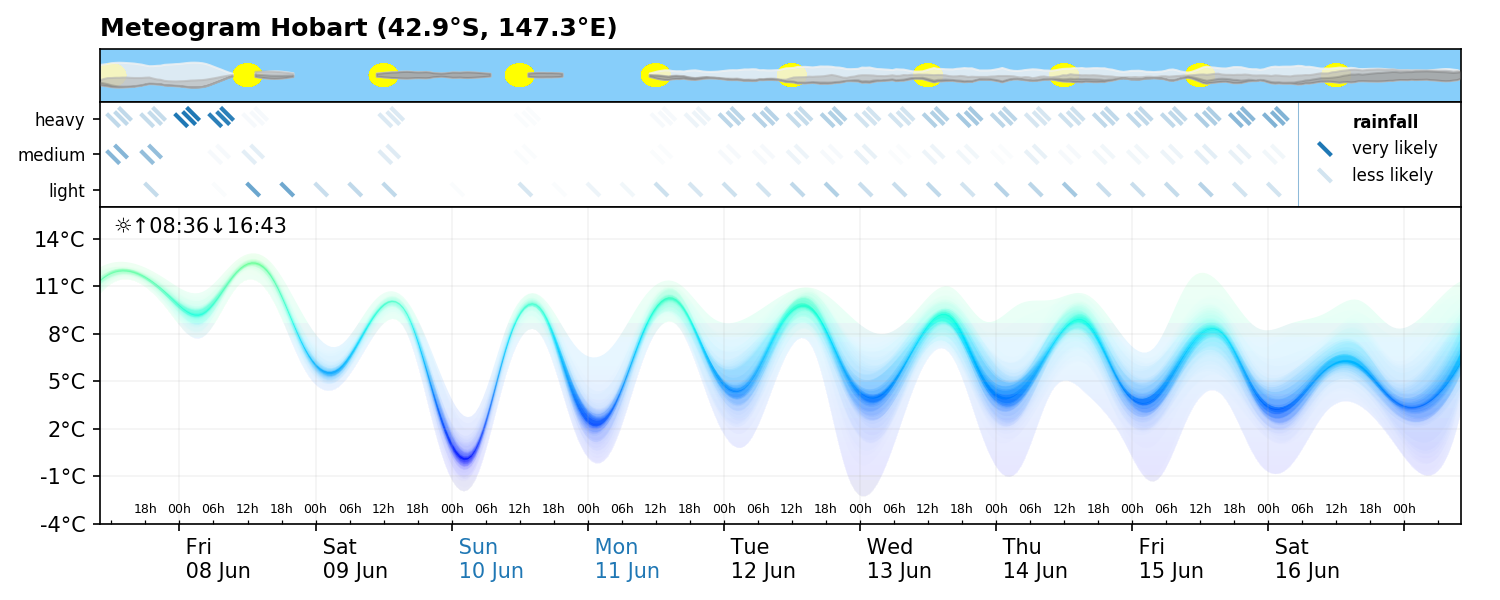
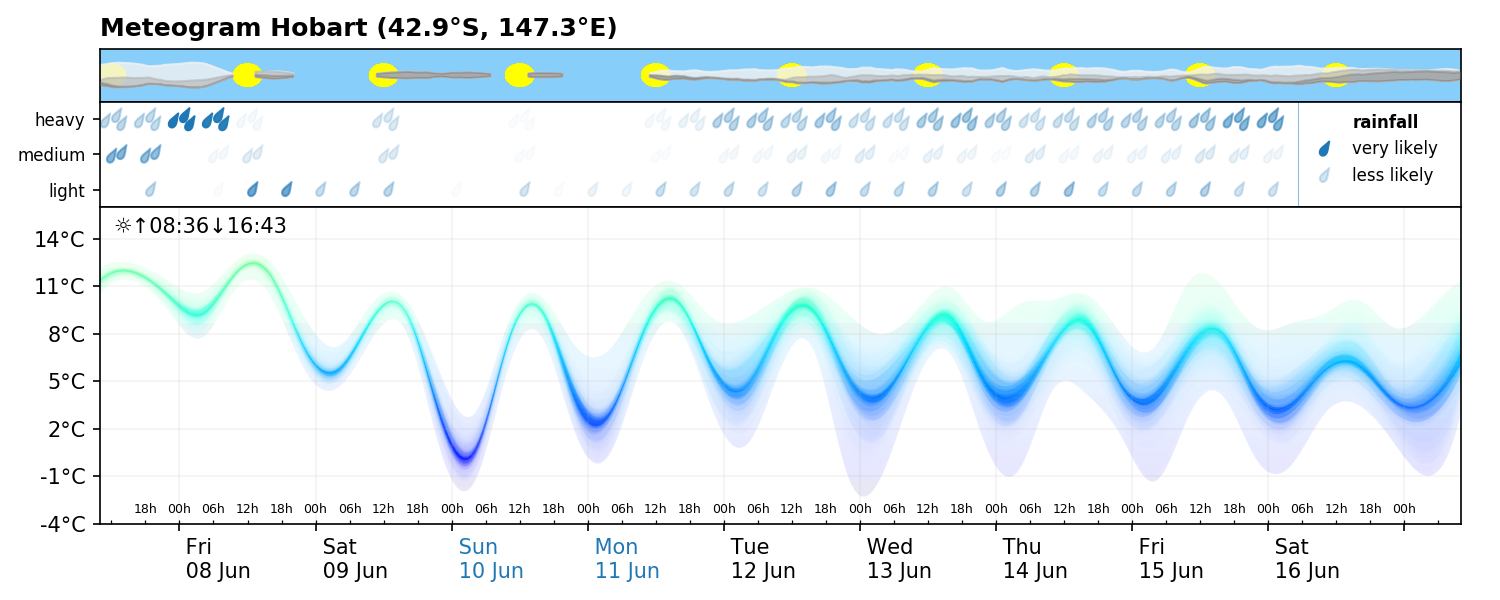
with droplets

diff --git a/meteogram.py b/meteogram.py
@@ -17,6 +17,7 @@ from sunrise import sun
 from tzwhere import tzwhere
 import pytz
 import warnings
+from droplet import droplet
 
 # LOCATION ARGUMENT
 tz = tzwhere.tzwhere()
@@ -253,7 +254,7 @@ def rain_ax_format(ax,dates,rain_explanation,dsize=78,dstring=(2,0,45)):
     ax.set_xticks([])
     ax.set_yticks([])
     ax.plot([0.88,0.88],[-1,3],transform=ax.transAxes,alpha=.5,lw=0.5)
-    ax.scatter([0.9,0.9],[0.3,0.55],dsize,linewidths=2,color=rain_explanation,transform=ax.transAxes,marker=dstring)
+    ax.scatter([0.9,0.9],[0.3,0.55],dsize,color=rain_explanation,transform=ax.transAxes,marker=droplet(rot=-30))
     ax.text(0.92,0.75,"rainfall",fontsize=8,fontweight="bold",transform=ax.transAxes,ha="left")
     ax.text(0.92,0.5,"very likely",fontsize=8,transform=ax.transAxes,ha="left")
     ax.text(0.92,0.25,"less likely",fontsize=8,transform=ax.transAxes,ha="left")
@@ -277,16 +278,12 @@ def temp_ax_format(ax,tminmax,dates,utcoffset):
     ax.xaxis.set_major_locator(DayLocator())                        # major
     ax.xaxis.set_major_formatter(DateFormatter(" %a\n %d %b"))
     plt.setp(ax.get_xticklabels(), ha="left")
-    #for tick in ax.get_xticklabels():
-    #    print(tick.properties()["text"])
-        #tick.set_horizontalalignment("left")
     plt.setp(ax.get_xticklabels(), ha="left")
-    #    if tick.get_text()[1:4] in ['Sat','Sun']:
-    #        print(tick)
-    #        tick.set_color("blue")
 
     # remove labels at edges
-    ax.get_xticklabels()[-1].set_visible(False)
+    if dates[-1].hour < 13:     # remove only if there is not enough space
+        ax.get_xticklabels()[-1].set_visible(False)
+    
     ax.get_xticklabels()[2].set_color("C0") #TODO make automatic
     ax.get_xticklabels()[3].set_color("C0")
     ax.get_xticklabels(which="minor")[-1].set_visible(False)
@@ -330,19 +327,20 @@ def temp_plotter(ax, dates, t_mean_spline, t_data_spline, tminmax,color='white',
 
 def rain_plotter(ax,lightrain,medrain,heavyrain,rdates,dsize=78,dstring=(2,0,45)):
 
-    dt = datetime.timedelta(hours=0.7) #used to shift symbols left/right
+    dt = datetime.timedelta(hours=0.9) #used to shift symbols left/right
+    dropletpath = droplet(rot=-30)
 
     # light rain
-    rain_ax.scatter(rdates,np.zeros_like(rdates),dsize,linewidths=2,color=lightrain,marker=dstring)
+    rain_ax.scatter(rdates,np.zeros_like(rdates),dsize,color=lightrain,marker=dropletpath)
     
     # medium rain
-    rain_ax.scatter([d+dt for d in rdates],1.08+np.zeros_like(rdates),dsize,linewidths=2,color=medrain,marker=dstring)
-    rain_ax.scatter([d-dt for d in rdates],0.92+np.zeros_like(rdates),dsize,linewidths=2,color=medrain,marker=dstring)
+    rain_ax.scatter([d+dt for d in rdates],1.05+np.zeros_like(rdates),dsize,color=medrain,marker=dropletpath)
+    rain_ax.scatter([d-dt for d in rdates],0.95+np.zeros_like(rdates),dsize,color=medrain,marker=dropletpath)
     
     # heavy rain
-    rain_ax.scatter([d+dt+dt for d in rdates],2.15+np.zeros_like(rdates),dsize,linewidths=2,color=heavyrain,marker=dstring)
-    rain_ax.scatter([d+dt for d in rdates],2.03+np.zeros_like(rdates),dsize,linewidths=2,color=heavyrain,marker=dstring)
-    rain_ax.scatter([d-dt for d in rdates],1.97+np.zeros_like(rdates),dsize,linewidths=2,color=heavyrain,marker=dstring)
+    rain_ax.scatter([d for d in rdates],2.1+np.zeros_like(rdates),dsize,color=heavyrain,marker=dropletpath)
+    rain_ax.scatter([d+dt for d in rdates],1.87+np.zeros_like(rdates),dsize,color=heavyrain,marker=dropletpath)
+    rain_ax.scatter([d-2.2*dt for d in rdates],1.95+np.zeros_like(rdates),dsize,color=heavyrain,marker=dropletpath)
 
 # PLOTTING
 fig = plt.figure(figsize=(10,4))

diff --git a/droplet.py b/droplet.py
@@ -1,0 +1,50 @@
+import matplotlib.pyplot as plt
+from matplotlib.path import Path
+import matplotlib.patches as patches
+from matplotlib.collections import PatchCollection
+import numpy as np
+
+def rotmat(rot):
+    d = 2*np.pi/360.    # assume input in degree
+    return np.array([[np.cos(d*rot),-np.sin(d*rot)],[np.sin(d*rot),np.cos(d*rot)]])
+        
+def droplet(xy=(0.,0.),width=0.4,height=1.,rot=0.):
+    
+    
+    # convert to x,y being in the middle of the droplet
+    x = xy[0]-width/2.
+    y = xy[1]-height/2.
+    
+    verts = [
+    (x+.5*width, y+height),
+    (x+.375*width,y+.8*height),
+    (x, y+.5*height),
+    (x, y+.35*height),
+    (x, y),
+    (x+width, y),
+    (x+width,y+.35*height),
+    (x+width,y+.5*height),
+    (x+.625*width,y+.8*height),
+    (x+.5*width,y+height),
+    (x+.5*width,y+height)]
+    
+    # perform rotation
+    if rot != 0:
+        R = rotmat(rot)
+        # subtract xy to rotate around the droplets centre
+        # and move it back to xy
+        verts = R.dot(np.array(verts-np.array(xy)).T).T + np.array(xy)
+    
+    codes = [Path.MOVETO,
+            Path.CURVE4,
+            Path.CURVE4,
+            Path.CURVE4,
+            Path.CURVE4,
+            Path.CURVE4,
+            Path.CURVE4,
+            Path.CURVE4,
+            Path.CURVE4,
+            Path.LINETO,
+            Path.CLOSEPOLY]
+    
+    return Path(verts,codes)
